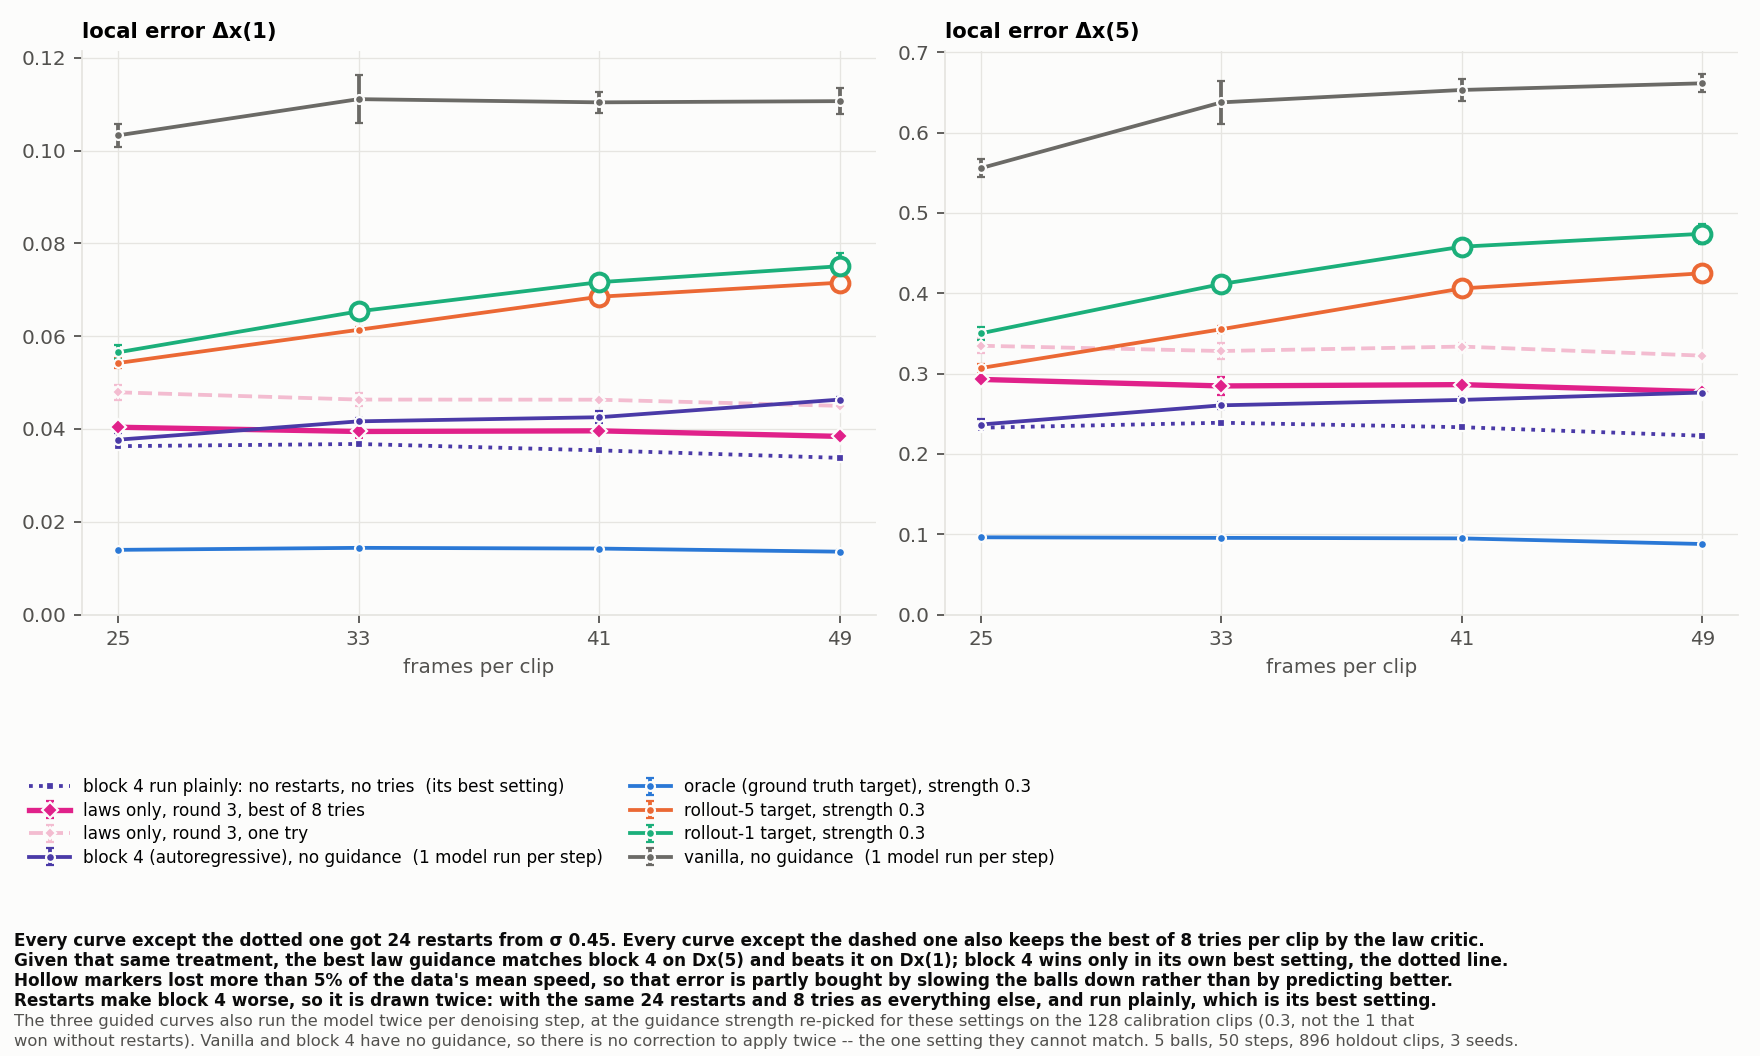
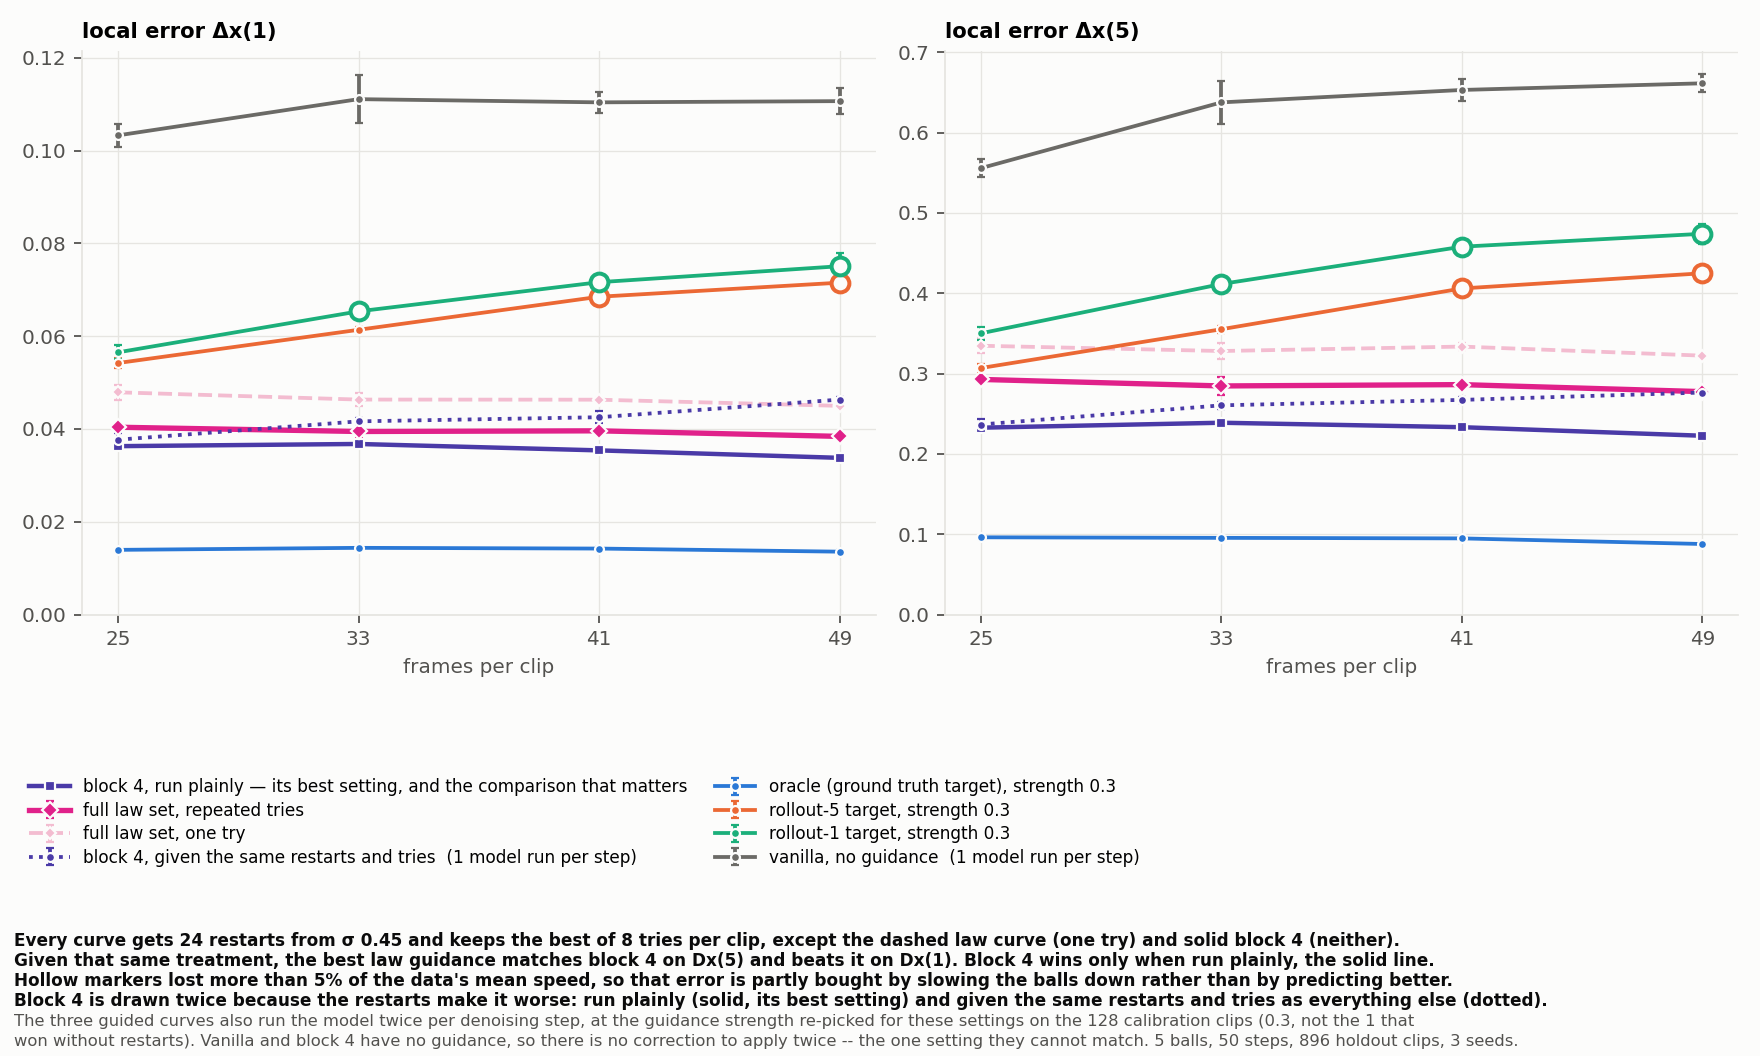
Make plain block 4 the solid line, and explain what the law set does
Block 4 run plainly is the better result and the comparison that matters, so it
now gets the solid line and the restarts-and-tries version gets the dotted one.
The legend, the two footer lines that referred to solid and dotted, and the
figure caption all follow.

The legend still said "laws only, round 3", a label no reader can decode, and
it is text baked into the PNG so the earlier prose rewrite missed it. The two
law curves are now "full law set, repeated tries" and "full law set, one try".

Added a short section saying what the full law set does: nine laws grouped as
geometry, free flight and collisions, with the two details that matter more
than the list -- residuals divided by current speed, so stalling the balls no
longer lowers the loss, and a wider contact margin so the free-flight laws do
not fight collisions they failed to notice.

diff --git a/index.html b/index.html
@@ -1707,7 +1707,7 @@
       <figure class="plot" id="guidance-laws-length">
         <div class="figure-heading"><h3>Every method given the same restarts and the same repeated tries</h3><a href="assets/statebench-guidance/figures/matched_horizon.png" download>Download PNG <span aria-hidden="true">↓</span></a></div>
         <img src="assets/statebench-guidance/figures/matched_horizon.png" alt="Local error against clip length, with every method given 24 restarts and 8 tries per clip, and block 4 drawn a second time without them. Block 4 is lowest at every length, the law curve is the flattest of the one-pass methods, and the rollout curves are drawn with hollow markers where their samples lost more than 5 percent of the data's speed" width="1760" height="1056" loading="lazy">
-        <figcaption><span class="figure-number">Figure 40.</span> Every curve here got the three settings that only the law methods had before: 24 restarts from σ 0.45, and 8 tries per clip keeping the one its law critic scores best. The guided curves also run the model twice per denoising step. Their guidance strength was re-picked for these settings on the 128 calibration clips and came out at 0.3 for all three, not the 1 that won without restarts. Vanilla and block 4 have no guidance, so there is no correction to apply twice — the one setting they cannot match. <strong>Hollow markers lost more than 5% of the data's mean speed</strong>, so that error is partly bought by slowing the balls down instead of predicting better. Block 4 appears twice because these settings make it worse: the solid line has the same 24 restarts and 8 tries as everything else, the dotted line is block 4 run plainly, which is its best setting. The two law curves are the full law set, with repeated tries (solid) and with a single try (dashed). Both beat the geometry-only set at every clip length.</figcaption>
+        <figcaption><span class="figure-number">Figure 40.</span> Every curve here got the three settings that only the law methods had before: 24 restarts from σ 0.45, and 8 tries per clip keeping the one its law critic scores best. The guided curves also run the model twice per denoising step. Their guidance strength was re-picked for these settings on the 128 calibration clips and came out at 0.3 for all three, not the 1 that won without restarts. Vanilla and block 4 have no guidance, so there is no correction to apply twice — the one setting they cannot match. <strong>Hollow markers lost more than 5% of the data's mean speed</strong>, so that error is partly bought by slowing the balls down instead of predicting better. Block 4 appears twice because these settings make it worse: the solid line is block 4 run plainly, which is its best setting and the comparison that matters, and the dotted line is block 4 given the same restarts and tries as everything else. The two pink curves are the full law set, with repeated tries (solid) and with a single try (dashed). Both beat the geometry-only set at every clip length.</figcaption>
       </figure>
       <div class="wide-width report-content">
         <div class="table-scroll" tabindex="0" role="region" aria-label="Five-step local error with every method given 24 restarts and 8 tries">
@@ -1729,6 +1729,12 @@
         <p class="setup-note">896 holdout clips, mean over 3 seeds. Speed is the mean ball speed measured from the generated positions, divided by the truth&rsquo;s; a method that slows every ball down lowers the local error without predicting better, so a value below 0.95 disqualifies the number.</p>
       </div>
       <div class="reading-width report-content">
+        <h4>What the full law set actually does</h4>
+        <p>At every denoising step the model produces its current guess at the finished clip. Nine laws are evaluated on that guess, each one an equation the true motion satisfies exactly, and the guess is nudged to satisfy them better. Nothing simulates the motion forward at any point.</p>
+        <p>Three laws constrain <strong>geometry</strong>: no two balls overlap, no ball leaves the box, and no ball jumps through another between consecutive frames. Two constrain <strong>free flight</strong>: a ball touching nothing keeps its velocity and lands exactly where a straight line puts it. Four constrain <strong>collisions</strong>: a colliding pair keeps its total momentum and its total energy, its centre of mass keeps moving at constant velocity, and the pair&rsquo;s relative velocity reflects about the line joining their centres.</p>
+        <p>Two details matter more than the law list. Every residual is divided by how fast the balls are currently moving, so slowing everything down no longer lowers the loss — without that, the guidance learns to stall the balls, which is what happened to the earlier law set. And a ball counts as touching another one from further away than strict contact, so the free-flight laws do not fight real collisions they failed to notice.</p>
+        <p>On top of the guidance it re-noises the finished clip and denoises it again many times over, and generates several clips and keeps the one three of the laws score best. Those two are not guidance and help any method, which is what the comparison below controls for.</p>
+
         <h4>Most of the apparent win came from the extra sampling work</h4>
         <p>The geometry law set looked far better than the rollout target, but the rollout target had been run without restarts or repeated tries. Give it both and almost all of that difference disappears. Those two settings help any guidance, and they help the unguided model most of all. The full law set does open a genuine gap over the rollout target, and that gap comes from the laws, because both methods now get the same sampling.</p>
         <h4>On the shortest clips the rollout target is more accurate</h4>
